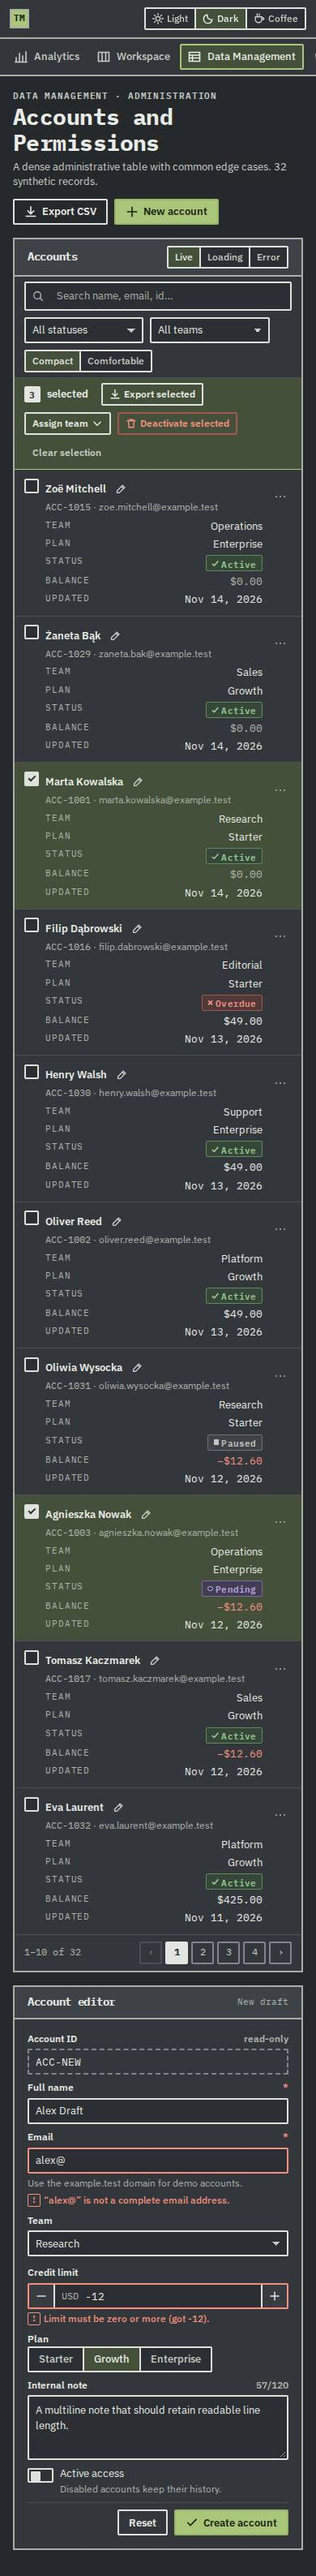
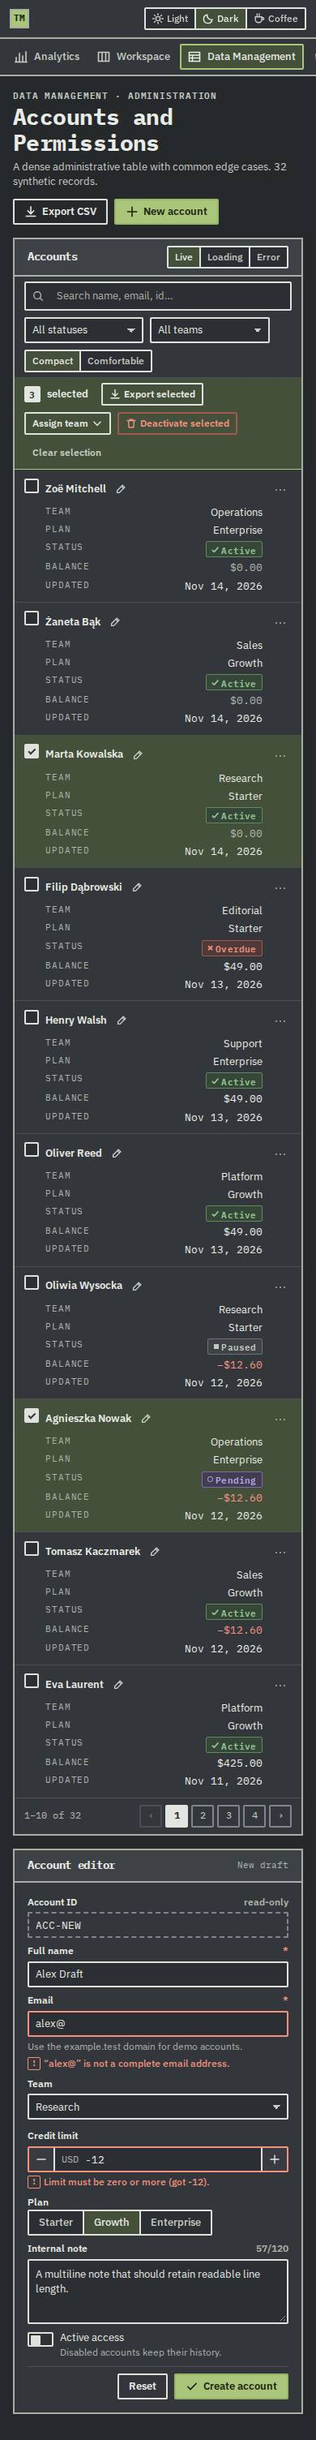
fix: meaningful table density toggle; styled select option list
- Compact density showed almost no change because two-line account cells
  set the row height. Compact now renders one line per account (id/email
  in the title tooltip, an info marker for notes); Comfortable keeps the
  detail lines and adds vertical cell padding. Rows: 37px vs 62px.
- Select option lists used the OS popup (rounded, white, blue). With
  appearance: base-select (Chromium 135+, incl. Android) the list is
  styled like our menus: ink frame, hard shadow, drawn tick, selection
  fill, hover tint, focus ring. Native list remains in other browsers.

Claude-Session: https://claude.ai/code/session_01WpekTqbxR8EZvqYNeeGVyi

diff --git a/src/the-mechanics/components.css b/src/the-mechanics/components.css
@@ -989,6 +989,73 @@
     background-repeat: no-repeat;
     cursor: pointer;
   }
+  /* Customizable select (progressive enhancement): where the browser supports
+     appearance: base-select (Chromium 135+, incl. Android), the option list is
+     styled like a .tm-menu instead of the OS popup. Other browsers keep the
+     native list; the closed control looks the same everywhere. */
+  @supports (appearance: base-select) {
+    .tm-select,
+    .tm-select::picker(select) {
+      appearance: base-select;
+    }
+    .tm-select {
+      display: flex;
+      align-items: center;
+    }
+    .tm-select::picker-icon {
+      display: none; /* the closed control keeps its own drawn caret */
+    }
+    .tm-select::picker(select) {
+      margin-block: 4px;
+      padding: var(--tm-space-1);
+      border: var(--tm-bw-control) solid var(--tm-ink);
+      border-radius: var(--tm-radius-2);
+      background: var(--tm-surface);
+      color: var(--tm-text);
+      box-shadow: var(--tm-shadow-overlay);
+    }
+    .tm-select option {
+      display: flex;
+      align-items: center;
+      gap: var(--tm-space-2);
+      min-height: var(--tm-control-sm);
+      padding: 0 var(--tm-space-2);
+      border-radius: var(--tm-radius-1);
+      background: transparent;
+      color: var(--tm-text);
+      font-size: var(--tm-text-sm);
+      cursor: pointer;
+    }
+    .tm-select option::checkmark {
+      /* drawn tick (same geometry as .tm-check), no font glyph needed */
+      content: "";
+      flex: none;
+      width: 0.3rem;
+      height: 0.55rem;
+      margin: -2px 0.25rem 0 0.15rem;
+      border: solid var(--tm-ink);
+      border-width: 0 2px 2px 0;
+      transform: rotate(45deg);
+    }
+    .tm-select option:not(:checked)::checkmark {
+      visibility: hidden; /* keep the column so labels stay aligned */
+    }
+    .tm-select option:hover,
+    .tm-select option:focus-visible {
+      background: var(--tm-hover);
+      outline: 0;
+    }
+    .tm-select option:focus-visible {
+      box-shadow: inset 0 0 0 2px var(--tm-focus);
+    }
+    .tm-select option:checked {
+      background: var(--tm-select-bg);
+    }
+    .tm-select option:disabled {
+      color: var(--tm-text-disabled);
+      cursor: not-allowed;
+    }
+  }
   .tm-input[type="search"]::-webkit-search-cancel-button {
     filter: grayscale(1);
   }
@@ -2022,6 +2089,11 @@
     display: block;
     font-size: var(--tm-text-xs);
     color: var(--tm-text-3);
+  }
+  /* Comfortable density also opens the cell padding vertically. */
+  .tm-density-comfortable .tm-table td,
+  .tm-table.tm-density-comfortable td {
+    padding-block: var(--tm-space-2);
   }
   .tm-table--striped tbody tr:nth-child(even) > * {
     background: var(--tm-surface-alt);

diff --git a/src/playground/pages/data.js b/src/playground/pages/data.js
@@ -102,7 +102,8 @@ export default {
         case "name":
           if (st.inline === r.id)
             return `<td class="tm-cell-primary" data-label=""><div class="pg-inline"><input class="tm-input tm-input--sm" id="inline-input" value="${esc(r.name)}" aria-label="Account name for ${esc(r.id)}"><button class="tm-btn tm-btn--sm tm-btn--primary tm-btn--icon" data-inline-save aria-label="Save name">${icon("check", "tm-icon--sm")}</button><button class="tm-btn tm-btn--sm tm-btn--ghost tm-btn--icon" data-inline-cancel aria-label="Cancel edit">${icon("x", "tm-icon--sm")}</button></div></td>`;
-          return `<td class="tm-cell-primary" data-label=""><div class="pg-acc"><span class="tm-table__primary">${esc(r.name)}</span>
+          return `<td class="tm-cell-primary" data-label=""><div class="pg-acc"><span class="tm-table__primary" title="${esc(`${r.id} · ${r.email}`)}">${esc(r.name)}</span>
+            ${r.note ? `<span class="pg-note-flag" title="${esc(r.note)}" aria-label="Has internal note">${icon("info", "tm-icon--sm")}</span>` : ""}
             <button class="tm-btn tm-btn--ghost tm-btn--icon tm-btn--sm pg-inline-edit" data-inline="${r.id}" aria-label="Rename ${esc(r.name)}">${icon("edit", "tm-icon--sm")}</button></div>
             <span class="tm-table__secondary"><span class="tm-mono">${esc(r.id)}</span> · ${esc(r.email)}</span>
             ${r.note ? `<span class="tm-table__secondary pg-note tm-truncate" title="${esc(r.note)}">${icon("info", "tm-icon--sm")} ${esc(r.note)}</span>` : ""}</td>`;
@@ -119,7 +120,9 @@ export default {
 
     function renderTable() {
       const wrap = $("#table-wrap");
-      const tbl = (body) => `<table class="tm-table tm-table--stack ${st.density === "comfortable" ? "tm-density-comfortable" : ""}" id="acc-table">
+      // Compact: one line per account (id/email in the title tooltip), 32px rows.
+      // Comfortable: name + id/email + note lines, 40px minimum and more air.
+      const tbl = (body) => `<table class="tm-table tm-table--stack ${st.density === "comfortable" ? "tm-density-comfortable" : "pg-compact"}" id="acc-table">
         <caption class="tm-sr-only">Accounts, sortable by column headers</caption>
         <thead><tr><th scope="col" class="tm-col-check"><input class="tm-check" type="checkbox" id="check-all" aria-label="Select all on this page"></th>${dm.columns.map(headerCell).join("")}<th scope="col" class="tm-col-actions"><span class="tm-sr-only">Actions</span></th></tr></thead>
         <tbody>${body}</tbody></table>`;

diff --git a/src/playground/app.css b/src/playground/app.css
@@ -369,3 +369,8 @@ h1:focus { outline: 0; }
   visibility: hidden !important;
   transition: none !important;
 }
+
+/* Data table density: compact shows one line per account. */
+.pg-compact .tm-table__secondary { display: none; }
+.pg-note-flag { display: none; color: var(--tm-info); }
+.pg-compact .pg-note-flag { display: inline-flex; }

diff --git a/DESIGN.md b/DESIGN.md
@@ -94,11 +94,13 @@ Reading width 68ch; content max 1600 px; narrow 1120 px; sidebar 232 px (56 px c
 | Button | Variants primary / secondary / outline / ghost / danger / danger-outline; sizes sm / md / lg; icon-only must have `aria-label`. Loading = `aria-busy="true"` (spinner + label kept). Disabled = muted surface, gray border and text, `not-allowed` cursor. Pressed = `aria-pressed="true"`. |
 | Segmented control | Radio inputs inside `.tm-segmented__option` (or `aria-pressed` buttons) in a 2px ink frame with 2px ink dividers. Selected = selection fill + full-strength text color (no underline). Selection never changes font weight, so widths never shift. |
 | Fields | Label above, hint below, error replaces nothing (both can show). Invalid = `aria-invalid="true"` → red border + `.tm-field__error` with a “!” glyph. Native number spinners are always hidden; use `.tm-stepper` ([−] [unit value] [+], square buttons with full-height dividers, matching control height, buttons disabled at min/max). Read-only = dashed outline, transparent fill. Prefix/suffix via `.tm-input-group` + `.tm-affix`. |
+| Select | Closed control: field geometry with a drawn caret. Option list: where `appearance: base-select` is supported (Chromium 135+, incl. Android) it is styled like a menu — ink frame, hard shadow, drawn tick for the chosen option, selection fill, hover tint, focus ring; other browsers keep the native list (progressive enhancement, no JS). |
 | Selection | Square checkbox (2 px radius), round radio, rectangular switch (not pill). Indeterminate shows a bar. Descriptions via `.tm-choice__desc`. |
 | Badge | Mono 11 px, 1 px tinted border, soft fill, **marker shape per tone** (✓ success, ▲ warning, ✕ danger, ● info, ○ pending, dashed □ offline, — disabled). Count badge is inverse. |
 | Alert vs toast | Alerts are persistent, in-flow, 4 px left bar. Toasts are transient (5 s default, pause on hover, progress line); errors are persistent until dismissed. |
 | Tooltip | Supplementary only; appears on hover **and** focus; Escape dismisses without moving focus. |
 | Tabs | Underline 3 px in selection color + bold; arrow-key roving. |
+| Table density | Compact = one line per record (secondary details in the title tooltip, a note marker instead of the note line), 32px minimum rows; Comfortable = full secondary lines, 40px minimum and extra vertical padding. The toggle must make a visible difference, not just a few pixels. |
 | Table | Sticky mono header within bounded scroll containers, tabular numerals, numbers right-aligned, negative values in danger color with a real minus sign, selected row = tint + 4 px left bar. On < 640 px `.tm-table--stack` turns rows into labelled records. |
 | Menu / popover | Native `popover`, Level-2 frame with Level-1 ink border and hard shadow; arrow keys, Home/End, Escape, focus return. |
 | Dialog / drawer | Native `<dialog>`; 2 px ink frame; head band `--tm-head-1`; destructive dialogs add a danger bar to the head. Escape and backdrop close; focus returns to the trigger. |

diff --git a/docs/verification/testing-report.md b/docs/verification/testing-report.md
@@ -47,6 +47,8 @@ Round 3 (owner review):
 30. Owner (phone): a tapped chart tooltip stayed open and, when scrolling, floated over the sticky topbar/nav (ECharts default z-index 9999999) → adapter sets the tooltip z-index to `--tm-z-sticky` (below `--tm-z-nav`), and tooltips close on page scroll and on taps/clicks outside the chart. Verified: forced to the top of the viewport the tooltip renders under the topbar (desktop + phone); after scrolling it is hidden; smoke check covers tap → open, z-index below chrome, scroll → closed.
 31. Owner review: thick colored side bars (field error, selected rows, active nav, alerts, toasts, danger dialog, code block) did not fit Sharp Retro-Tech → removed everywhere; rule recorded in DESIGN.md (exceptions: blockquote, TOC indicator). Native number spinners replaced by a `.tm-stepper` component ([−] value [+]) used in the Data editor, product drawer and gallery; buttons disable at min/max (verified: quantity stops at stock 4).
 32. Owner: “many delicate elements, Cypherpunk is a strong theme” → “strong controls” variant served side by side and approved: all interactive controls get 2px borders in a new `--tm-ink` token (ink in Light, bright text in Dark/Coffee so checked fills read clearly); checkboxes/radios/switches filled with ink when on (18px); segmented/chip selection marked by fill without underline (owner request). Control heights verified unchanged (28/32px); contrast check adds ink pairs (48 per theme, all pass).
+33. Owner: the Compact/Comfortable toggle seemed to do nothing (two-line rows dominated the height) → Compact shows one line per account (id/email as tooltip, note marker), Comfortable shows details with extra padding; measured rows 37px vs 62px, table 401px vs 733px.
+34. Owner: select option list used the OS popup (rounded, white, blue highlight) → `appearance: base-select` styling (ink frame, drawn tick, selection fill, focus ring) in supporting browsers; verified in Light/Dark/Coffee with keyboard selection; native fallback elsewhere.
 
 ### Interaction / keyboard checks — `pnpm smoke` (all pass, [`smoke-results.json`](smoke-results.json))
 Desktop 1440×900, Chromium:
